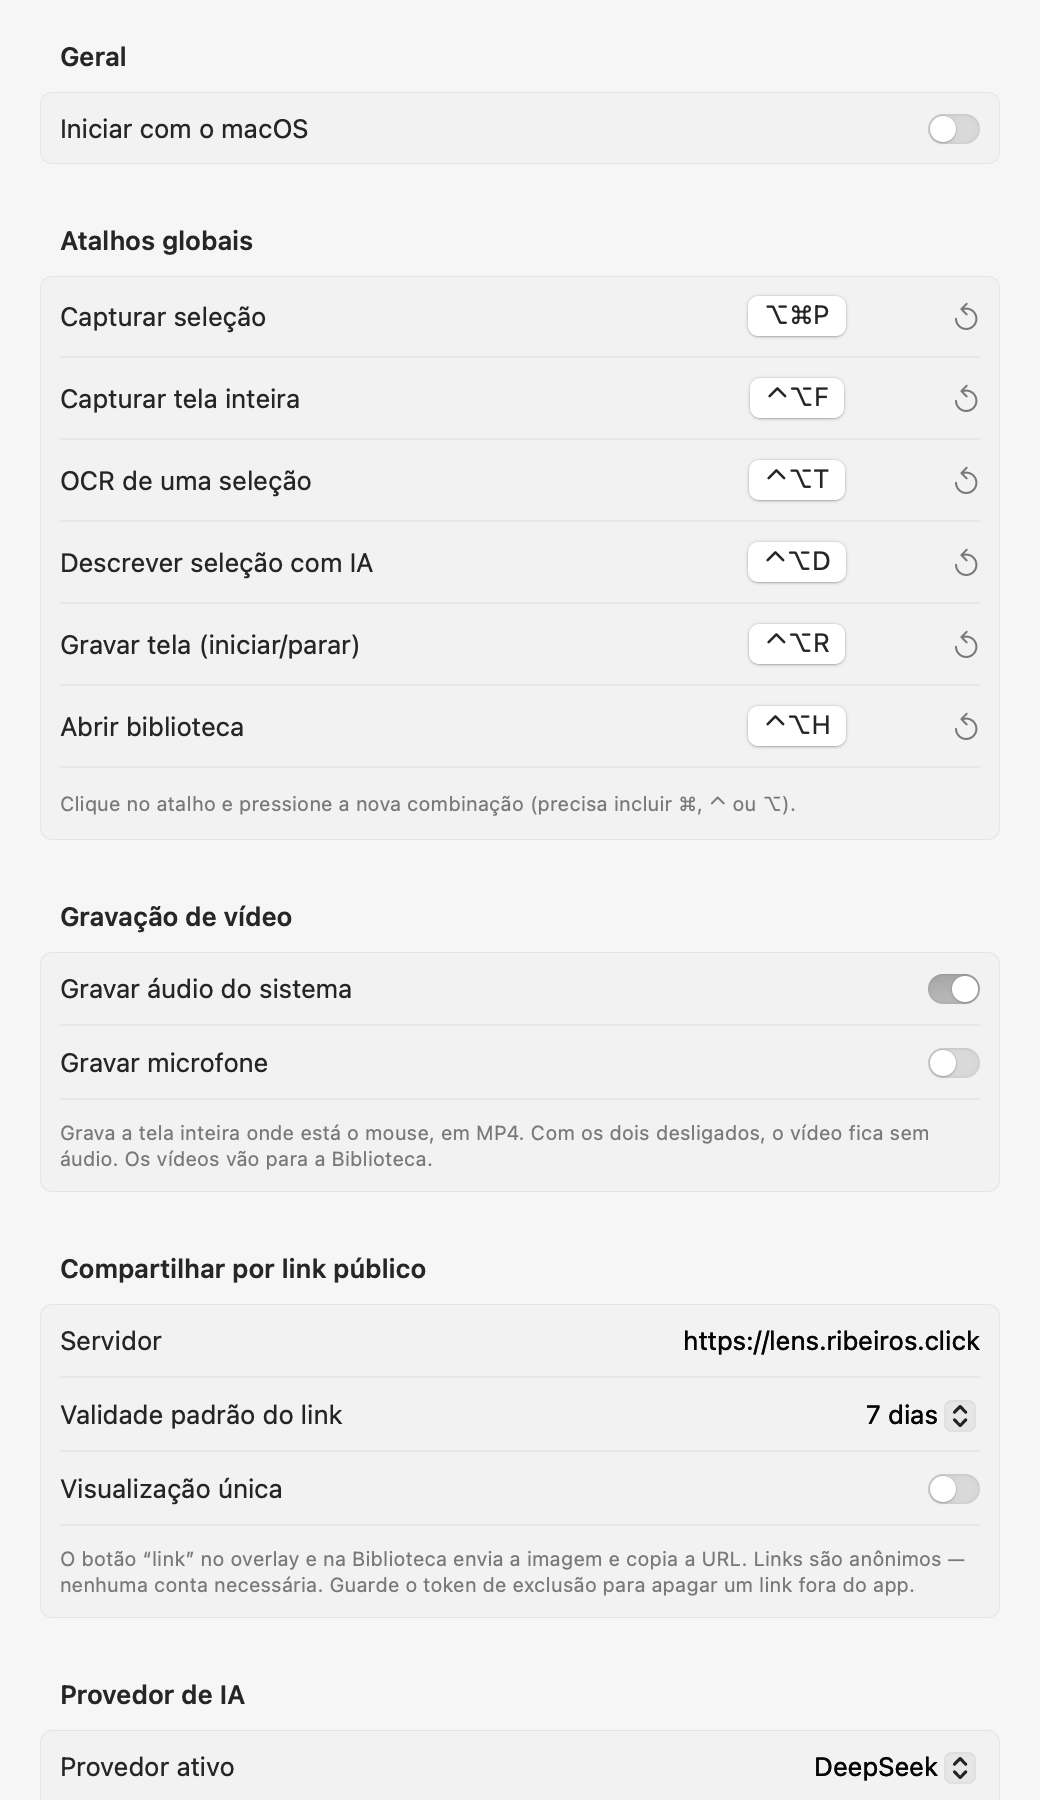
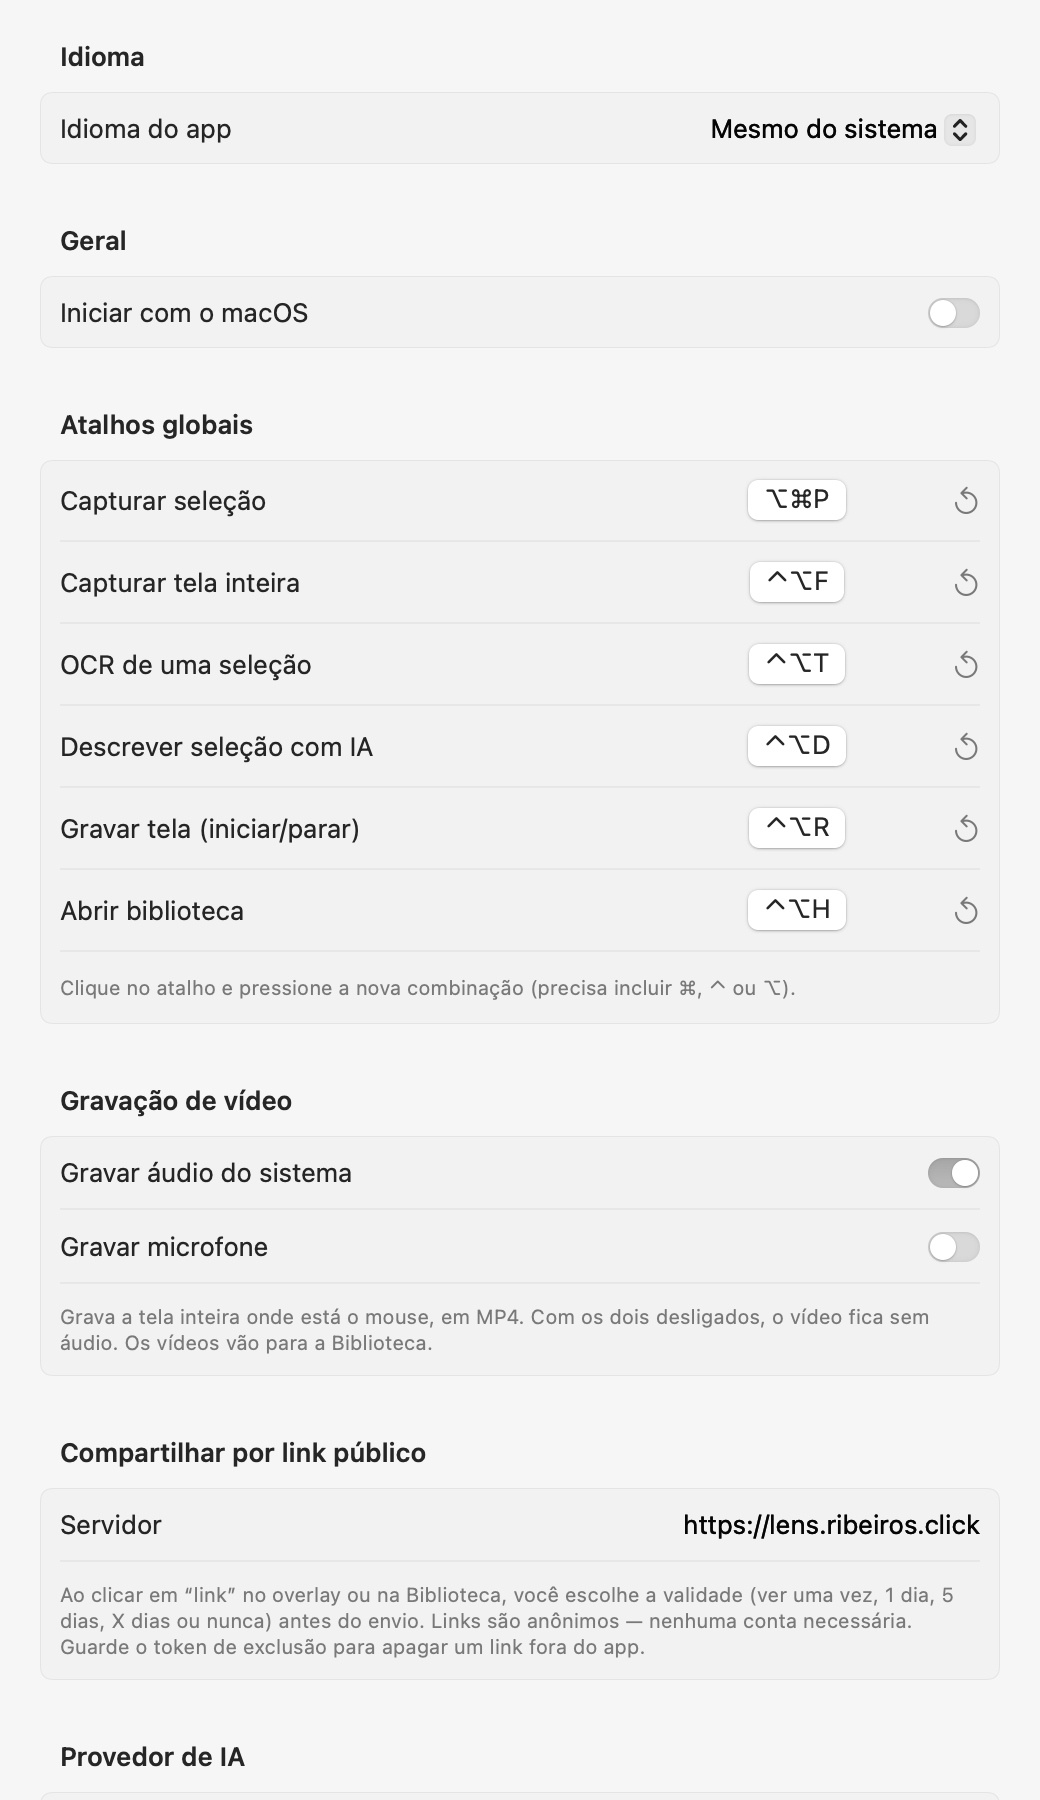
Windows: share expiry chooser (view once, 1 day, 5 days, X days, never) matching macOS; settings simplified; site screenshots refreshed

diff --git a/windows/SnapLens/Share.cs b/windows/SnapLens/Share.cs
@@ -7,21 +7,43 @@ using static SnapLens.Loc;
 namespace SnapLens;
 
 /// Compartilhamento por link público (servidor PHP em `server/`).
-public enum ShareExpiry { H1 = 3600, D1 = 86400, D7 = 604800, D30 = 2592000, Never = 0 }
+/// Validade escolhida na hora de compartilhar (mesmas opções do app macOS).
+public enum ShareChoice { Once, D1, D5, Custom, Never }
 
 public static class ShareConfig
 {
     public const string DefaultServer = "https://lens.ribeiros.click";
-    public static readonly ShareExpiry[] AllExpiries = { ShareExpiry.H1, ShareExpiry.D1, ShareExpiry.D7, ShareExpiry.D30, ShareExpiry.Never };
+    public static readonly ShareChoice[] AllChoices = { ShareChoice.Once, ShareChoice.D1, ShareChoice.D5, ShareChoice.Custom, ShareChoice.Never };
 
-    public static string Title(this ShareExpiry e) => e switch
+    public static string Title(this ShareChoice c) => c switch
     {
-        ShareExpiry.H1 => L("1 hora"),
-        ShareExpiry.D1 => L("1 dia"),
-        ShareExpiry.D7 => L("7 dias"),
-        ShareExpiry.D30 => L("30 dias"),
-        _ => L("Sem expirar"),
+        ShareChoice.Once => L("Ver uma vez"),
+        ShareChoice.D1 => L("Durante 1 dia"),
+        ShareChoice.D5 => L("Durante 5 dias"),
+        ShareChoice.Custom => L("Durante…"),
+        _ => L("Nunca expirar"),
     };
+
+    /// (segundos de validade, visualização única). "Ver uma vez" tem 30 dias como vida máxima.
+    public static (int Seconds, bool Once) Resolve(this ShareChoice c, int customDays) => c switch
+    {
+        ShareChoice.Once => (30 * 86400, true),
+        ShareChoice.D1 => (86400, false),
+        ShareChoice.D5 => (5 * 86400, false),
+        ShareChoice.Custom => (Math.Clamp(customDays, 1, 365) * 86400, false),
+        _ => (0, false),
+    };
+
+    public static ShareChoice LastChoice
+    {
+        get => Enum.TryParse<ShareChoice>(Settings.Data.ShareChoice, out var c) ? c : ShareChoice.D1;
+        set { Settings.Data.ShareChoice = value.ToString(); Settings.Save(); }
+    }
+    public static int CustomDays
+    {
+        get => Math.Clamp(Settings.Data.ShareCustomDays <= 0 ? 7 : Settings.Data.ShareCustomDays, 1, 365);
+        set { Settings.Data.ShareCustomDays = Math.Clamp(value, 1, 365); Settings.Save(); }
+    }
 
     public static string Server
     {
@@ -31,9 +53,6 @@ public static class ShareConfig
             return (string.IsNullOrWhiteSpace(s) ? DefaultServer : s).Trim().TrimEnd('/');
         }
     }
-    public static bool Once => Settings.Data.ShareOnce;
-    public static ShareExpiry Expiry =>
-        Enum.IsDefined(typeof(ShareExpiry), Settings.Data.ShareExpiry) ? (ShareExpiry)Settings.Data.ShareExpiry : ShareExpiry.D7;
 }
 
 public sealed class ShareResult
@@ -51,10 +70,10 @@ public static class ShareClient
 {
     private static readonly HttpClient Http = new() { Timeout = TimeSpan.FromSeconds(60) };
 
-    public static async Task<ShareResult> Upload(byte[] png, ShareExpiry expiry, bool once)
+    public static async Task<ShareResult> Upload(byte[] png, int expirySeconds, bool once)
     {
         using var form = new MultipartFormDataContent("SnapLens-" + Guid.NewGuid());
-        form.Add(new StringContent(((int)expiry).ToString()), "expires");
+        form.Add(new StringContent(expirySeconds.ToString()), "expires");
         form.Add(new StringContent(once ? "1" : "0"), "once");
         var file = new ByteArrayContent(png);
         file.Headers.ContentType = new MediaTypeHeaderValue("image/png");

diff --git a/windows/SnapLens/UI/ShareOptionsForm.cs b/windows/SnapLens/UI/ShareOptionsForm.cs
@@ -1,0 +1,74 @@
+using static SnapLens.Loc;
+
+namespace SnapLens;
+
+/// Caixa mostrada ao clicar em "compartilhar": validade do link (ver uma vez, 1 dia, 5 dias, X dias, nunca).
+public sealed class ShareOptionsForm : Form
+{
+    public ShareChoice Choice { get; private set; } = ShareConfig.LastChoice;
+    public int CustomDays { get; private set; } = ShareConfig.CustomDays;
+
+    public ShareOptionsForm()
+    {
+        Ui.Window(this, L("Compartilhar"), 400, 300);
+        FormBorderStyle = FormBorderStyle.FixedDialog;
+        MaximizeBox = MinimizeBox = false;
+        ShowInTaskbar = false;
+        TopMost = true;
+
+        var root = new FlowLayoutPanel { Dock = DockStyle.Fill, FlowDirection = FlowDirection.TopDown, WrapContents = false, Padding = new Padding(20, 16, 20, 8) };
+        Controls.Add(root);
+        root.Controls.Add(Ui.Label(L("Compartilhar por link público"), Ui.Bold));
+        root.Controls.Add(new Label { Height = 6, Width = 1, Margin = Padding.Empty });
+
+        var hint = Ui.Label("", Ui.Small, Ui.Secondary, wrap: true);
+        hint.MaximumSize = new Size(350, 0);
+        var radios = new Dictionary<ShareChoice, RadioButton>();
+        var days = new NumericUpDown { Minimum = 1, Maximum = 365, Value = CustomDays, Width = 60, TextAlign = HorizontalAlignment.Right, Margin = new Padding(6, 0, 6, 0) };
+
+        void Select(ShareChoice c)
+        {
+            Choice = c;
+            hint.Text = c switch
+            {
+                ShareChoice.Once => L("O link se apaga na primeira abertura (ou em 30 dias, o que vier primeiro)."),
+                ShareChoice.Never => L("O link fica no ar até você revogá-lo na Biblioteca ou pela página de token."),
+                _ => L("Passado o prazo, a imagem é apagada do servidor. Você pode revogar antes."),
+            };
+        }
+
+        foreach (var c in ShareConfig.AllChoices)
+        {
+            var row = new FlowLayoutPanel { AutoSize = true, WrapContents = false, Margin = new Padding(0, 2, 0, 2) };
+            var rb = new RadioButton { Text = c.Title(), AutoSize = true, Checked = c == Choice, Margin = new Padding(0, 3, 0, 0) };
+            rb.CheckedChanged += (_, _) => { if (rb.Checked) Select(c); };
+            radios[c] = rb;
+            row.Controls.Add(rb);
+            if (c == ShareChoice.Custom)
+            {
+                days.ValueChanged += (_, _) => radios[ShareChoice.Custom].Checked = true;
+                row.Controls.Add(days);
+                row.Controls.Add(Ui.Label(L("dias")));
+            }
+            root.Controls.Add(row);
+        }
+        root.Controls.Add(hint);
+        Select(Choice);
+
+        var bottom = new FlowLayoutPanel { Dock = DockStyle.Bottom, FlowDirection = FlowDirection.RightToLeft, Height = 44, Padding = new Padding(16, 6, 16, 8) };
+        var ok = Ui.Button(L("Compartilhar"), () =>
+        {
+            CustomDays = (int)days.Value;
+            ShareConfig.LastChoice = Choice;
+            ShareConfig.CustomDays = CustomDays;
+            DialogResult = DialogResult.OK;
+            Close();
+        });
+        var cancel = Ui.Button(L("Cancelar"), () => { DialogResult = DialogResult.Cancel; Close(); });
+        bottom.Controls.Add(ok);
+        bottom.Controls.Add(cancel);
+        Controls.Add(bottom);
+        AcceptButton = ok;
+        CancelButton = cancel;
+    }
+}

diff --git a/windows/SnapLens/UI/SettingsForm.cs b/windows/SnapLens/UI/SettingsForm.cs
@@ -62,20 +62,7 @@ public sealed class SettingsForm : Form
         var server = new TextBox { Width = 290, Text = Settings.Data.ShareServer, PlaceholderText = ShareConfig.DefaultServer };
         server.TextChanged += (_, _) => { Settings.Data.ShareServer = server.Text.Trim(); Settings.Save(); };
         Row(share, L("Servidor"), server);
-        var expiry = Combo();
-        foreach (var e in ShareConfig.AllExpiries) expiry.Items.Add(e.Title());
-        expiry.SelectedIndex = Array.IndexOf(ShareConfig.AllExpiries, ShareConfig.Expiry);
-        expiry.SelectedIndexChanged += (_, _) => { Settings.Data.ShareExpiry = (int)ShareConfig.AllExpiries[expiry.SelectedIndex]; Settings.Save(); };
-        Row(share, L("Validade padrão do link"), expiry);
-        var once = Check(L("Visualização única"), Settings.Data.ShareOnce);
-        var shareNote = Note("");
-        void UpdateShareNote() => shareNote.Text = once.Checked
-            ? L("O link se apaga automaticamente após a primeira abertura. A validade continua valendo como tempo máximo de vida do link — vale o que ocorrer primeiro.")
-            : L("O botão “link” no overlay e na Biblioteca envia a imagem e copia a URL. Links são anônimos — nenhuma conta necessária. Guarde o token de exclusão para apagar um link fora do app.");
-        once.CheckedChanged += (_, _) => { Settings.Data.ShareOnce = once.Checked; Settings.Save(); UpdateShareNote(); };
-        UpdateShareNote();
-        share.Controls.Add(once);
-        share.Controls.Add(shareNote);
+        share.Controls.Add(Note(L("Ao clicar em “link” no overlay ou na Biblioteca, você escolhe a validade (ver uma vez, 1 dia, 5 dias, X dias ou nunca) antes do envio. Links são anônimos — nenhuma conta necessária. Guarde o token de exclusão para apagar um link fora do app.")));
 
         // Provedor de IA
         var ai = Section(L("Provedor de IA"));

diff --git a/windows/SnapLens/App.cs b/windows/SnapLens/App.cs
@@ -243,14 +243,18 @@ public sealed class TrayApp : ApplicationContext
 
     // MARK: Link público
 
+    /// Abre a caixa de validade e, ao confirmar, faz o upload.
     public async Task Share(Item item)
     {
         var path = store.PathFor(item);
         if (path == null || !File.Exists(path)) return;
+        using var options = new ShareOptionsForm();
+        if (options.ShowDialog() != DialogResult.OK) return;
+        var (seconds, onceWanted) = options.Choice.Resolve(options.CustomDays);
         Toast.Show(L("Enviando para %@…", ShareConfig.Server.Replace("https://", "")), Icons.Link);
         try
         {
-            var r = await ShareClient.Upload(await File.ReadAllBytesAsync(path), ShareConfig.Expiry, ShareConfig.Once);
+            var r = await ShareClient.Upload(await File.ReadAllBytesAsync(path), seconds, onceWanted);
             item.ShareID = r.Id;
             item.ShareURL = r.Url;
             item.ShareExpires = r.ExpiresAt is double e && e > 0 ? DateTimeOffset.FromUnixTimeSeconds((long)e).LocalDateTime : null;

diff --git a/windows/SnapLens/Settings.cs b/windows/SnapLens/Settings.cs
@@ -13,8 +13,8 @@ public sealed class AppSettings
     public bool RecSystem { get; set; } = true;
     public bool RecMic { get; set; }
     public string ShareServer { get; set; } = "";
-    public int ShareExpiry { get; set; } = (int)SnapLens.ShareExpiry.D7;
-    public bool ShareOnce { get; set; }
+    public string ShareChoice { get; set; } = "D1";   // última validade escolhida ao compartilhar
+    public int ShareCustomDays { get; set; } = 7;
     public Dictionary<string, string> Models { get; set; } = new();
     public Dictionary<string, string> Bases { get; set; } = new();
     public Dictionary<string, Shortcut> Shortcuts { get; set; } = new();
